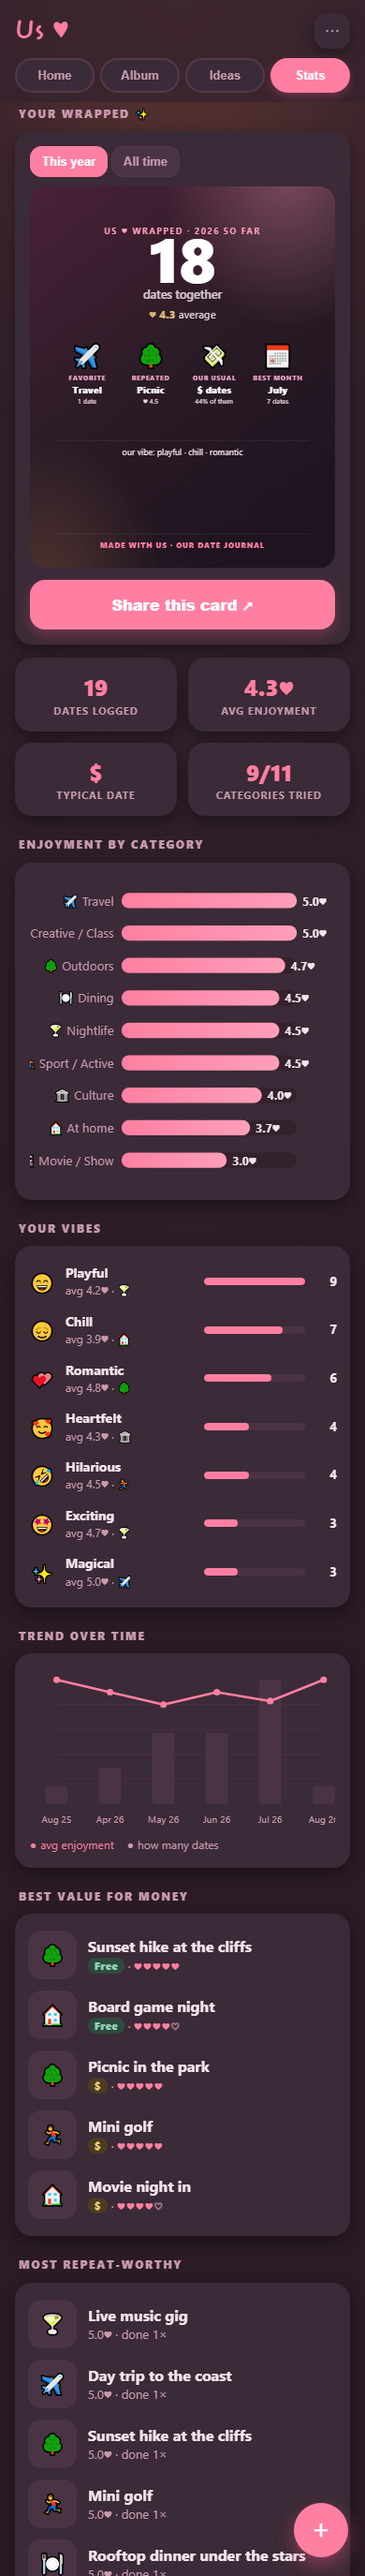
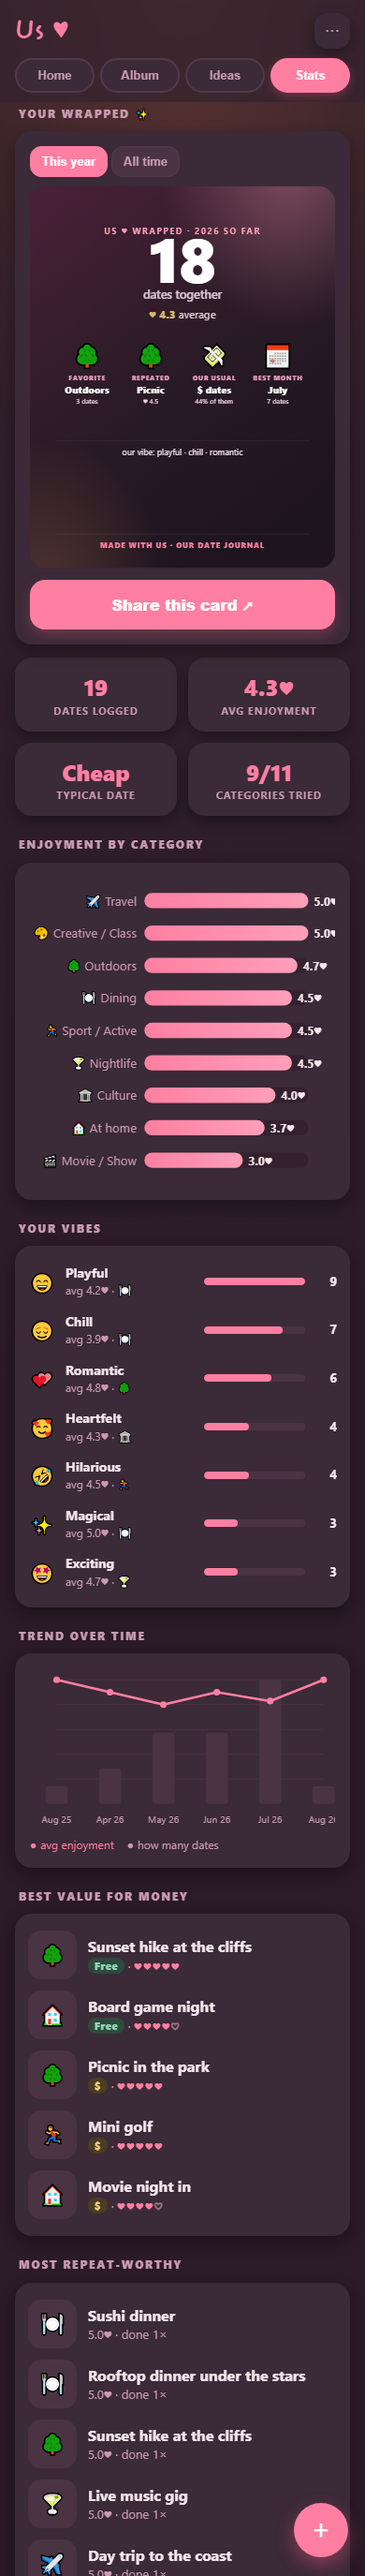
Stats play-test round: five fixes
- Wrapped FAVORITE is the most-dated category, not a 1-date
  enjoyment outlier (share-card credibility)
- Bar chart labels no longer clip ('Creative / Class' etc.)
- Empty 'This year' falls back to the all-time card with a caption
  instead of claiming 'No dates logged yet'
- Share failures fall through to download (AbortError stays silent);
  unknown legacy cost tiers no longer produce 'NaN% of them'
- Best-value / most-repeat-worthy rows open the entry in the Album;
  'Typical date' tile shows the tier word instead of a bare '$'

Found by an agent play-test of the Stats tab. logic 39/39, smoke pass.

diff --git a/js/ui.js b/js/ui.js
@@ -3,7 +3,7 @@
 import * as db from "./store.js";
 import {
   CATEGORIES, MOOD_OPTIONS, COST_TIERS, METER, catLabel, catEmoji,
-  blankEntry, fmtDate, entryTimeMs, tierLabel, tierForCost, repeatForEnjoyment,
+  blankEntry, fmtDate, entryTimeMs, tierLabel, tierWord, tierForCost, repeatForEnjoyment,
   normTitle, todayISO, fmtDuration,
 } from "./model.js";
 import * as A from "./analytics.js";
@@ -1458,21 +1458,34 @@ function fullMonthName(ym) {
 
 function wrappedStats(period) {
   const year = new Date().getFullYear();
-  const periodLabel = period === "year" ? `${year} SO FAR` : "ALL TIME";
-  const list = period === "year" ? done().filter(d => new Date(entryTimeMs(d)).getFullYear() === year) : done();
+  let effPeriod = period;
+  let list = period === "year" ? done().filter(d => new Date(entryTimeMs(d)).getFullYear() === year) : done();
+  let fallbackNote = null;
+  if (period === "year" && !list.length && done().length) {
+    list = done();
+    effPeriod = "all";
+    fallbackNote = `No dates in ${year} yet — showing all time`;
+  }
+  const periodLabel = effPeriod === "year" ? `${year} SO FAR` : "ALL TIME";
   const s = A.summary(list);
   if (!s.count) return { periodLabel, count: 0 };
   const cats = A.byCategory(list);
+  // most-dated category wins "favorite" (tie-break by avg enjoyment) — sorting
+  // purely by avg enjoyment let a single 5-heart outlier beat a real favorite.
+  const favCat = cats.length
+    ? [...cats].sort((a, b) => b.count - a.count || b.avgEnjoyment - a.avgEnjoyment)[0]
+    : null;
   const bestMonth = A.monthlyTrend(list).reduce((a, b) => (b.count > a.count ? b : a));
   const repeats = A.repeatWorthy(list, list.length);
   const mostRepeated = repeats.length ? repeats.reduce((a, b) => (b.count > a.count ? b : a)) : null;
   const td = A.tierDistribution(list);
   return {
     periodLabel,
+    fallbackNote,
     count: s.count,
     avgEnjoyment: s.avgEnjoyment,
     usualTier: td ? { label: tierLabel(td.usual), pct: td.pct } : null,
-    favCategory: cats[0] ? { emoji: cats[0].emoji, label: cats[0].label, count: cats[0].count } : null,
+    favCategory: favCat ? { emoji: favCat.emoji, label: favCat.label, count: favCat.count } : null,
     mostRepeated: mostRepeated && mostRepeated.count > 1
       ? { emoji: catEmoji(mostRepeated.category), title: mostRepeated.title, avgEnjoyment: mostRepeated.avgEnjoyment }
       : null,
@@ -1498,8 +1511,13 @@ async function onShareWrapped() {
     if (!blob) return;
     const file = new File([blob], "us-wrapped.png", { type: "image/png" });
     if (navigator.canShare?.({ files: [file] })) {
-      try { await navigator.share({ files: [file] }); } catch { /* user cancelled — share sheet already handled it */ }
-      return;
+      try {
+        await navigator.share({ files: [file] });
+        return;
+      } catch (err) {
+        if (err?.name === "AbortError") return; // user cancelled — stay silent
+        // any other rejection (e.g. share sheet failed) falls through to download below
+      }
     }
     const a = document.createElement("a");
     a.href = URL.createObjectURL(blob);
@@ -1521,6 +1539,19 @@ function wireInsights() {
   bind("wrap-share", "click", onShareWrapped);
   const wrapCard = viewEl().querySelector(".wrap-card");
   if (wrapCard) attachSwipe(wrapCard, () => setWrapPeriod("all"), () => setWrapPeriod("year"));
+  viewEl().querySelectorAll("[data-open]").forEach(el =>
+    el.addEventListener("click", () => openEntry(el.dataset.open)));
+  viewEl().querySelectorAll("[data-norm-title]").forEach(el =>
+    el.addEventListener("click", () => openEntryByNormTitle(el.dataset.normTitle)));
+}
+
+// Most repeat-worthy rows are grouped by normalized title (no single entry id) —
+// jump to the most recent logged entry that matches, same detail-expand path as
+// Home's Recent Memories / History's openEntry.
+function openEntryByNormTitle(normT) {
+  const match = [...done()].sort((a, b) => entryTimeMs(b) - entryTimeMs(a))
+    .find(e => normTitle(e.title) === normT);
+  if (match) openEntry(match.id);
 }
 
 function renderInsights() {
@@ -1568,13 +1599,14 @@ function renderInsights() {
         <button class="seg ${wrapPeriod === "all" ? "on" : ""}" data-wrap-period="all">All time</button>
       </div>
       <div class="chart-wrap">${C.wrappedCard(wStats, document.documentElement.dataset.theme || "plum")}</div>
+      ${wStats.fallbackNote ? `<p class="muted small" style="margin:6px 0 0">${escHtml(wStats.fallbackNote)}</p>` : ""}
       <button class="btn" id="wrap-share" style="margin-top:12px" ${wStats.count ? "" : "disabled"}>Share this card ↗</button>
     </div>
 
     <div class="stat-grid">
       <div class="stat"><div class="num">${s.count}</div><div class="lbl">Dates logged</div></div>
       <div class="stat"><div class="num">${s.avgEnjoyment.toFixed(1)}♥</div><div class="lbl">Avg enjoyment</div></div>
-      <div class="stat"><div class="num">${td ? tierLabel(td.usual) : "—"}</div><div class="lbl">Typical date</div></div>
+      <div class="stat"><div class="num">${td ? tierWord(td.usual) : "—"}</div><div class="lbl">Typical date</div></div>
       <div class="stat"><div class="num">${s.distinctCategories}/${s.totalCategories}</div><div class="lbl">Categories tried</div></div>
     </div>
 
@@ -1592,7 +1624,7 @@ function renderInsights() {
       const pill = tier ? `<span class="tier-pill${tier === "free" ? " free" : ""}">${tierLabel(tier)}</span> · ` : "";
       const hearts = `<span class="hearts">${"♥".repeat(d.enjoyment)}<span class="off">${"♡".repeat(5 - d.enjoyment)}</span></span>`;
       return `
-      <div class="entry" style="padding:6px 0">
+      <div class="entry" style="padding:6px 0;cursor:pointer" data-open="${escAttr(d.id)}">
         <div class="thumb">${catEmoji(d.category)}</div>
         <div class="meta"><h4>${escHtml(d.title)}</h4><div class="sub">${pill}${hearts}</div></div>
       </div>`;
@@ -1600,7 +1632,7 @@ function renderInsights() {
 
     <h3 class="section-title">Most repeat-worthy</h3>
     <div class="card tight">${rep.map(r => `
-      <div class="entry" style="padding:6px 0">
+      <div class="entry" style="padding:6px 0;cursor:pointer" data-norm-title="${escAttr(normTitle(r.title))}">
         <div class="thumb">${catEmoji(r.category)}</div>
         <div class="meta"><h4>${escHtml(r.title)}</h4><div class="sub">${r.avgEnjoyment.toFixed(1)}♥ · done ${r.count}×</div></div>
       </div>`).join("")}</div>

diff --git a/js/model.js b/js/model.js
@@ -28,12 +28,13 @@ export const REPEAT_OPTIONS = [
 // v2 log form: categorical cost tiers. `ils` is a representative amount stored in
 // the numeric `cost` field so spend analytics keep working on approximations.
 export const COST_TIERS = [
-  { key: "free", label: "Free", ils: 0 },
-  { key: "low",  label: "$",    ils: 60 },
-  { key: "mid",  label: "$$",   ils: 180 },
-  { key: "high", label: "$$$",  ils: 450 },
+  { key: "free", label: "Free", word: "Free",  ils: 0 },
+  { key: "low",  label: "$",    word: "Cheap", ils: 60 },
+  { key: "mid",  label: "$$",   word: "Mid",   ils: 180 },
+  { key: "high", label: "$$$",  word: "Fancy", ils: 450 },
 ];
 export function tierLabel(key) { return COST_TIERS.find(t => t.key === key)?.label || ""; }
+export function tierWord(key) { return COST_TIERS.find(t => t.key === key)?.word || ""; }
 // Bucket a legacy numeric cost into the nearest tier (for pre-selecting on edit).
 export function tierForCost(n) {
   if (n == null || isNaN(n)) return null;

diff --git a/js/analytics.js b/js/analytics.js
@@ -70,11 +70,13 @@ export function valueForMoney(dates, topN = 5) {
 
 // Most common cost tier + its share of tiered entries. Null if nothing has a tier.
 export function tierDistribution(list) {
+  const validKeys = new Set(COST_TIERS.map(t => t.key));
   const counts = {};
   let total = 0;
   for (const e of list) {
-    const t = e.costTier || tierForCost(e.cost);
-    if (!t) continue;
+    let t = e.costTier || tierForCost(e.cost);
+    if (!validKeys.has(t)) t = tierForCost(e.cost); // legacy/unknown costTier -> re-derive from cost
+    if (!validKeys.has(t)) continue; // still unresolvable -> skip rather than corrupt the pct
     counts[t] = (counts[t] || 0) + 1;
     total++;
   }

diff --git a/js/charts.js b/js/charts.js
@@ -6,7 +6,7 @@ const esc = s => String(s).replace(/[<>&]/g, c => ({ "<": "&lt;", ">": "&gt;", "
 // Horizontal bar chart for category enjoyment (value scale 0..5).
 export function barChart(rows, { max = 5, unit = "♥" } = {}) {
   if (!rows.length) return emptySvg("No data yet");
-  const W = 320, rowH = 34, padL = 96, padR = 40, top = 8;
+  const W = 320, rowH = 34, padL = 120, padR = 28, top = 8;
   const H = top * 2 + rows.length * rowH;
   const barW = W - padL - padR;
   let bars = "";
